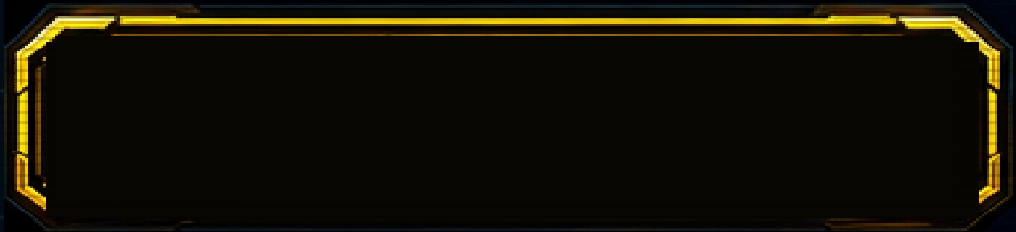
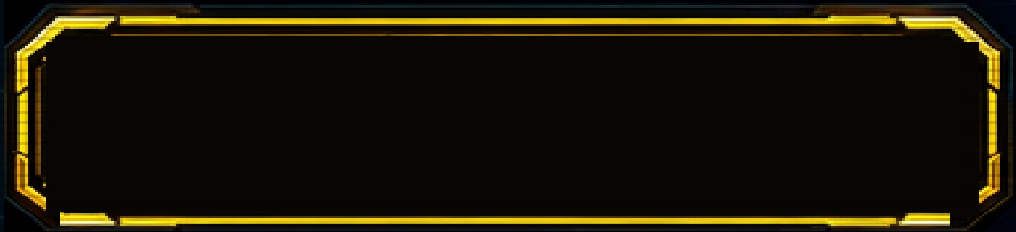
fix(mobile): close every plate frame -- mirror bright bars onto dim edges
User verdict on the comp-vs-app side-by-side: BOTH read as malformed.
The comp's plates are lit from above -- New Game's bottom and Join
Room's top are near-black bevels -- and at phone size a dim edge reads
as a missing one. Matching the comp was therefore never going to close
these windows; the actual requirement is a clearly visible frame on all
four sides of every plate.

New mirrorBand treatment in extract-arcade-kit.py: lighten-paste a
vertically flipped copy of the plate's own bright bar onto its weak
edge, keeping the art language (bar thickness, color, corner joins).
Applied to plate-phone-gold (bottom), plate-phone-purple (top), and
badge-phone-signed-in (bottom); cyan/green/red already have bright caps
on both ends.

501 unit tests; arcade-regions + tabletopMobile + mobileOverflow +
accessibility e2e 18/18 (chromium).

Claude-Session: https://claude.ai/code/session_01Cb4e8oJrM1C4jyKvRVtA5U

Changed region(s): [[0.061, 0.9052, 0.9459, 0.9957]]

diff --git a/scripts/extract-arcade-kit.py b/scripts/extract-arcade-kit.py
@@ -77,6 +77,28 @@ def apply_erase(
         ImageDraw.Draw(crop).rectangle([ex, ey, ex + ew - 1, ey + eh - 1], fill=fill)
 
 
+def apply_mirror_bands(asset_name: str, entry: dict, crop: Image.Image) -> None:
+    """Lighten-paste a vertically flipped copy of a bright band elsewhere.
+
+    Some concept plates are lit from above: a bright top bar but a near-black
+    bottom bevel (or vice versa). On phone the dim side reads as a missing
+    edge (user verdict 2026-08-02), so mirror the plate's own bright bar onto
+    its weak side. Lighten blend preserves whatever art is already there.
+    """
+    from PIL import ImageChops
+
+    for i, mb in enumerate(entry.get("mirrorBand", [])):
+        x, y, w, h = mb["rect"]
+        dest_y = mb["destY"]
+        if x < 0 or y < 0 or x + w > crop.width or y + h > crop.height:
+            raise ValueError(f"{asset_name}: mirrorBand[{i}] rect exceeds crop")
+        if dest_y < 0 or dest_y + h > crop.height:
+            raise ValueError(f"{asset_name}: mirrorBand[{i}] destY exceeds crop")
+        band = crop.crop((x, y, x + w, y + h)).transpose(Image.FLIP_TOP_BOTTOM)
+        region = crop.crop((x, dest_y, x + w, dest_y + h))
+        crop.paste(ImageChops.lighter(region, band), (x, dest_y))
+
+
 def apply_center(
     asset_name: str, entry: dict, crop: Image.Image, src_im: Image.Image
 ) -> Image.Image:
@@ -138,6 +160,7 @@ def extract(manifest: dict, write_assets: bool) -> dict[str, Image.Image]:
         crop = src.crop((x, y, x + w, y + h))
         apply_erase(name, entry, crop, src)
         crop = apply_center(name, entry, crop, src)
+        apply_mirror_bands(name, entry, crop)
         results[name] = crop
         if write_assets:
             out_path = OUT_ROOT / entry["out"]
